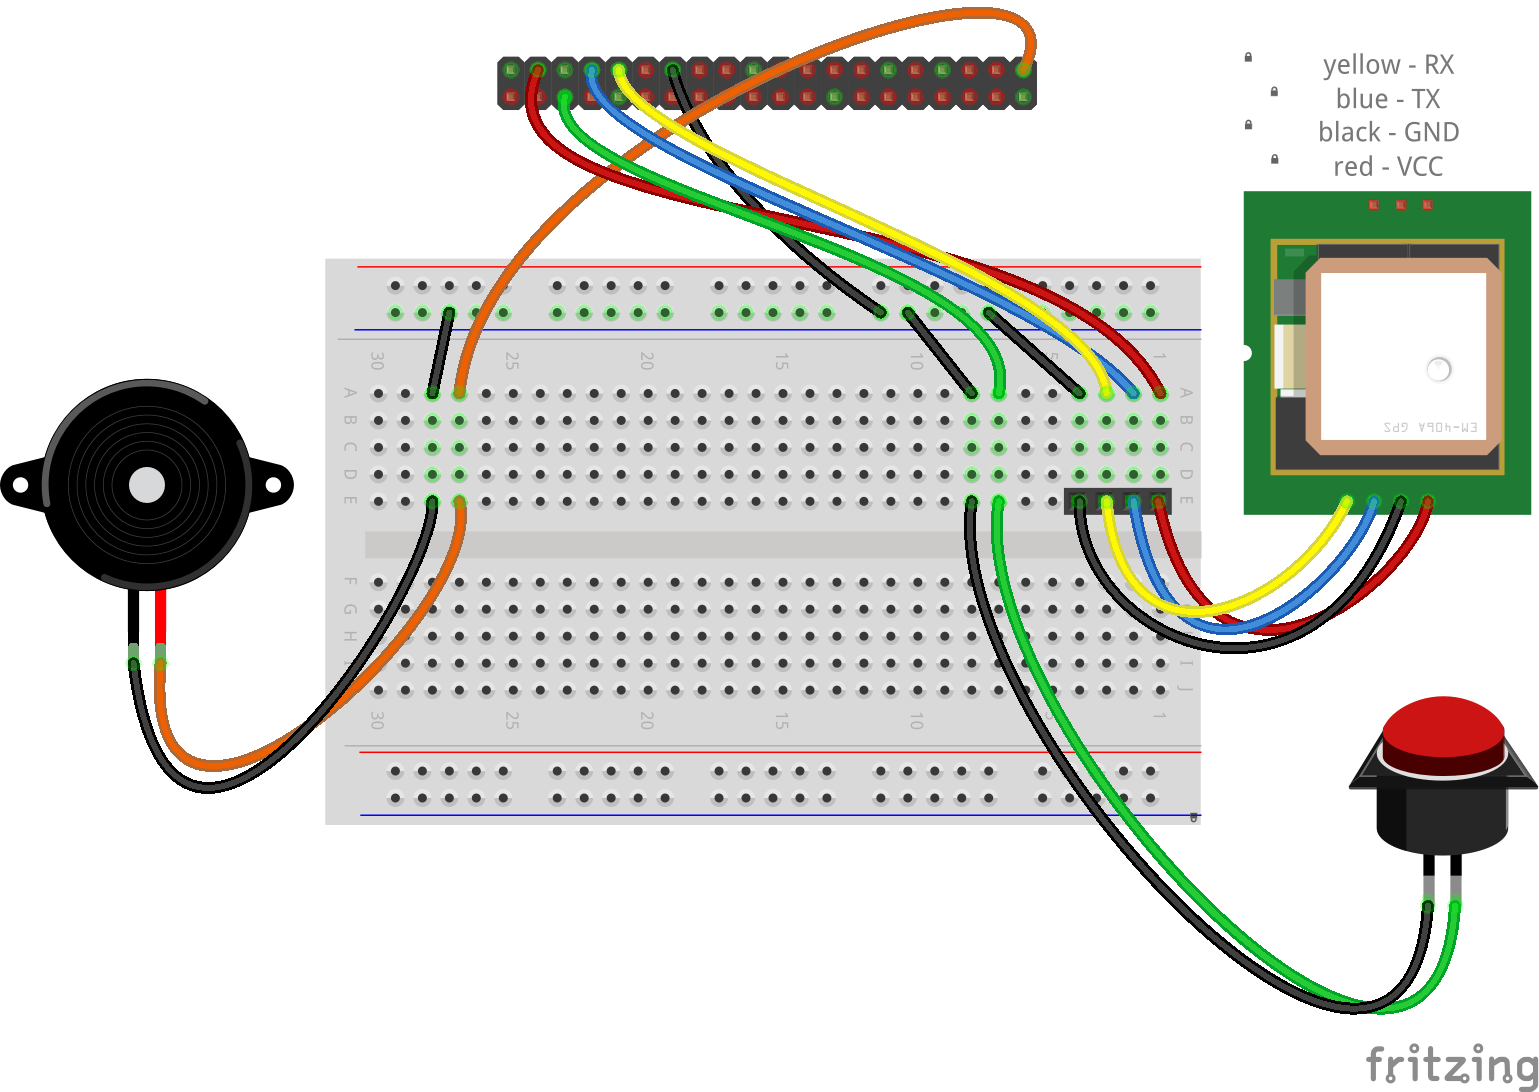
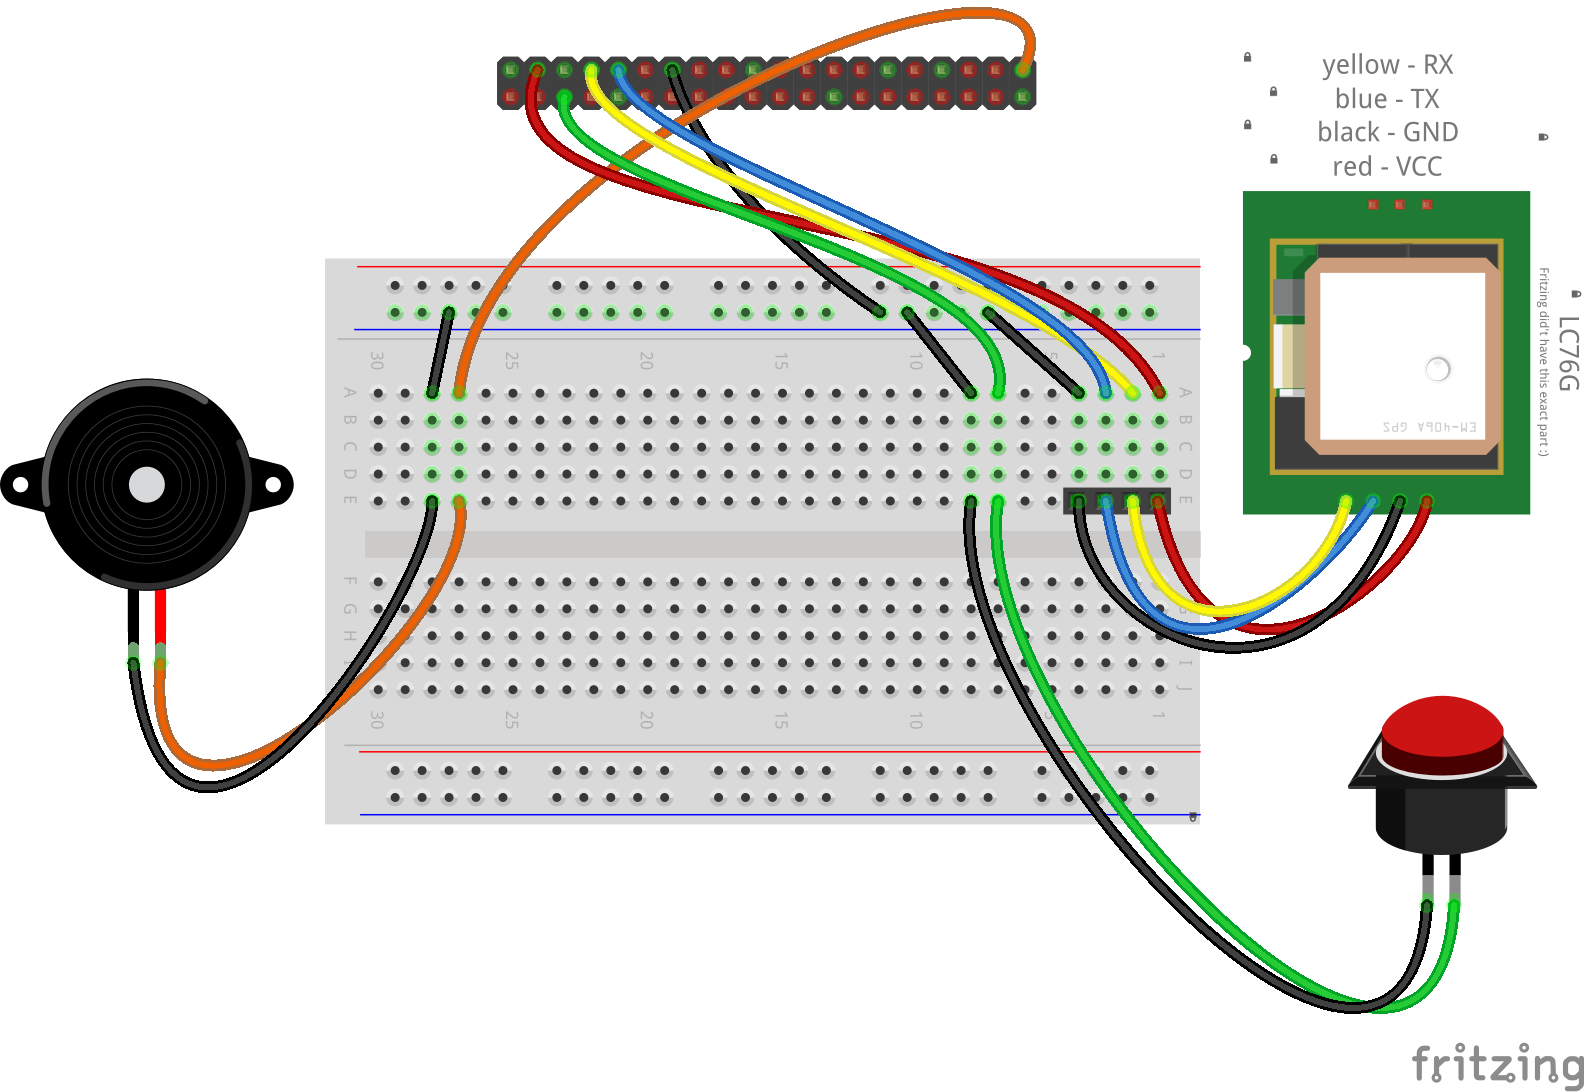
Fixed sketch according to LC76G Wiki, updated README.md

Changed region(s): [[0.0312, 0.0, 1.0, 1.0], [0.2495, 0.685, 0.5614, 0.7473], [0.8421, 0.0311, 0.9357, 0.2179]]

diff --git a/usr/bin/trek-tracker/trek-tracker.py b/usr/bin/trek-tracker/trek-tracker.py
@@ -101,7 +101,6 @@ ser = serial.Serial(SERIAL_PORT, baudrate=BAUD_RATE, timeout=SERIAL_TIMEOUT)
 time.sleep(1)
 
 while True:
-    '''
     try:
         # Read data from the serial port
         data = ser.readline().decode('utf-8').strip()
@@ -126,11 +125,11 @@ while True:
                 # Send data to Socket.IO server
                 print(gnss_data.__dict__)
                 sio.emit('sendCurrent', gnss_data.__dict__)
+            '''
             else:
-                print('Not RMC message')
-            
+                print('No RMC message!')
+            '''
         else:
             print('No data!')
     except Exception as e:
         print('Error:', e)
-    '''

diff --git a/usr/bin/trek-tracker/test_trek-tracker.py b/usr/bin/trek-tracker/test_trek-tracker.py
@@ -6,6 +6,7 @@ import os
 from dotenv import load_dotenv
 import socketio
 from gnss_data import GNSSData
+import serial
 
 def test_load_config():
     """Loads confing needed for connecting to server from .env file."""

diff --git a/README.md b/README.md
@@ -2,6 +2,10 @@
 
 Trek tracker for tracking your motorcycles or whatever.
 
+## Used GPS module
+
+- [Waveshare LC76G](https://www.waveshare.com/wiki/LC76G_GNSS_Module)
+
 ## Installing
 
 Packages `python3` and `python3-pip` are required:
